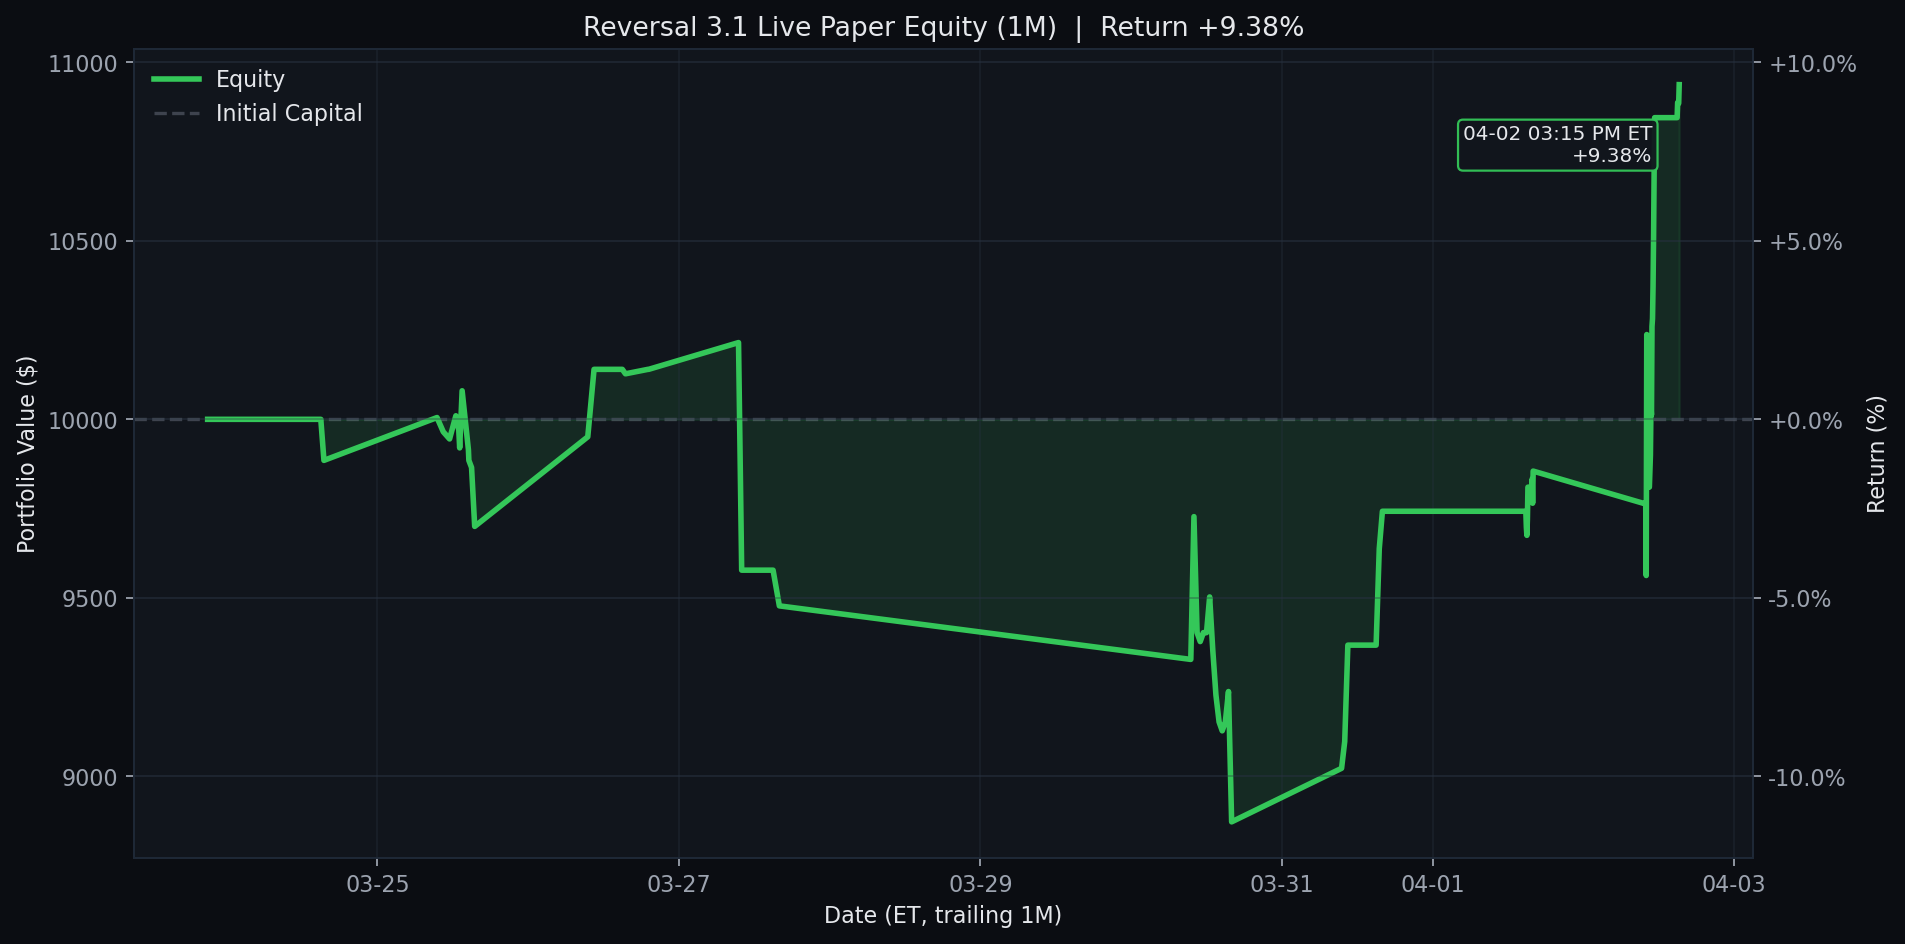
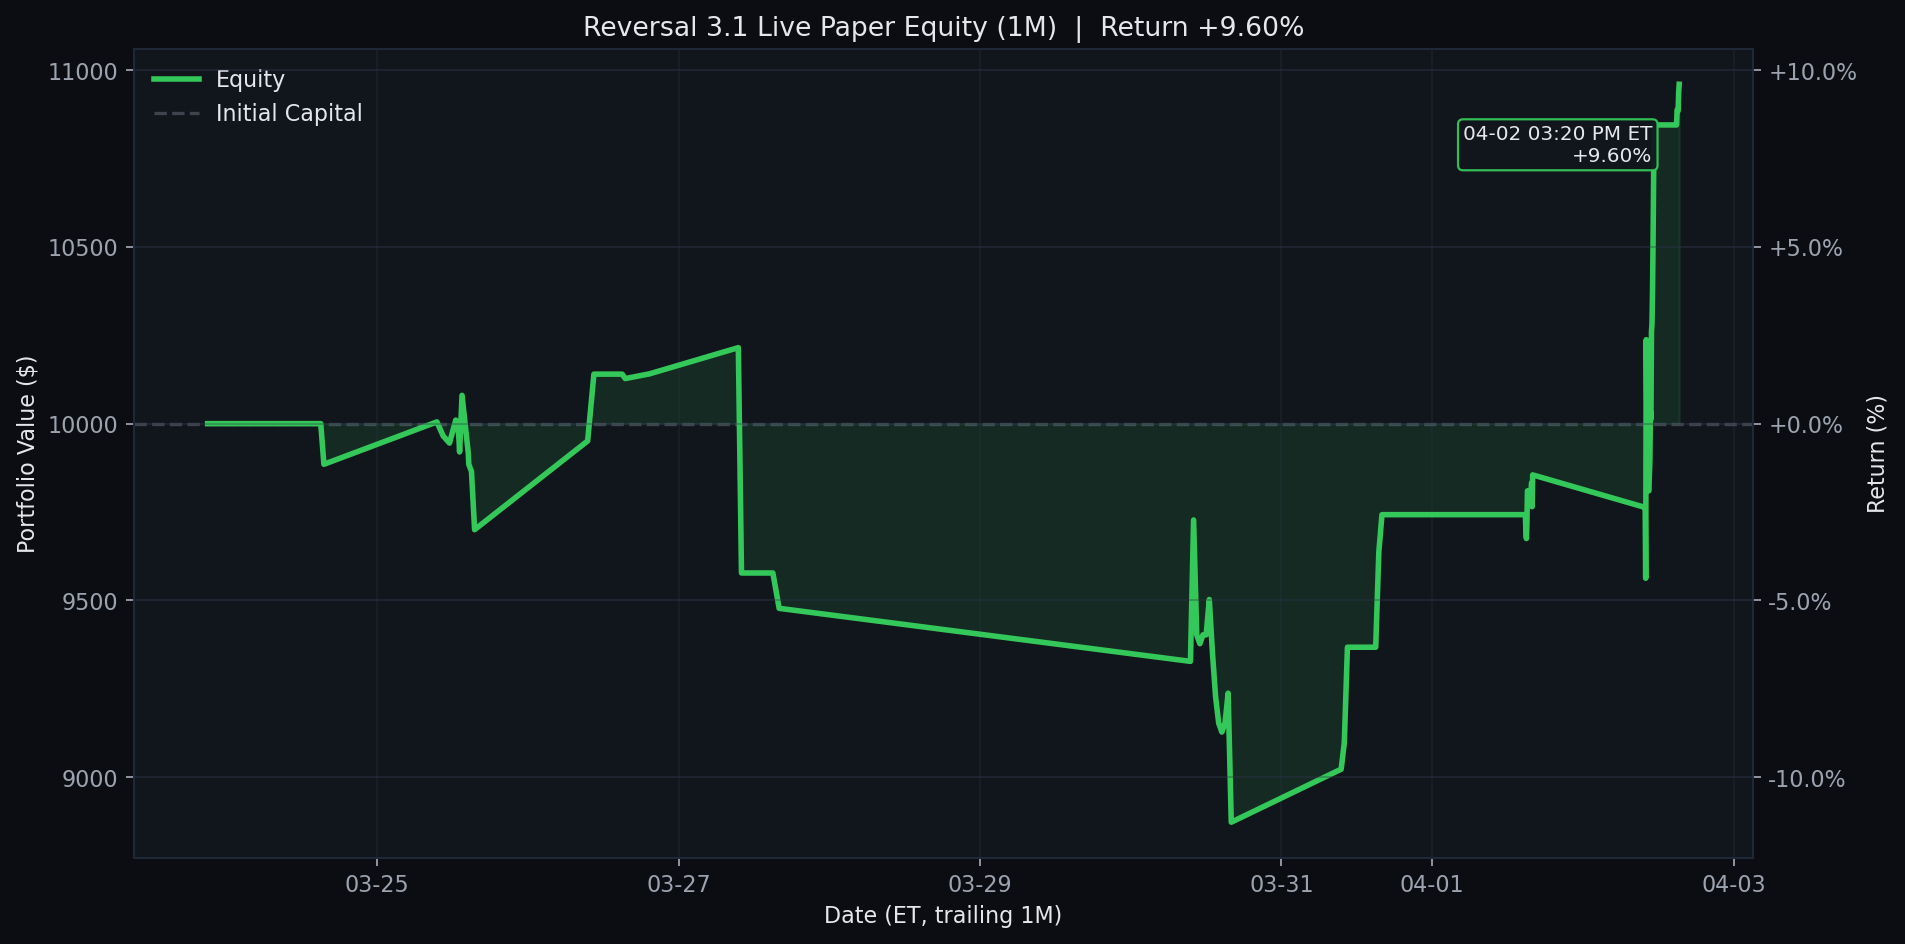
Update Reversal 3.1 live paper test 2026-04-02 15:20 ET

diff --git a/results/reversal_3_1_live/README.md b/results/reversal_3_1_live/README.md
@@ -1,7 +1,7 @@
 # Reversal 3.1 Live Paper Test
 
-Last updated (ET): `2026-04-02 15:15:00 EDT`
-Last processed slot: `manual_refresh`
+Last updated (ET): `2026-04-02 15:20:05 EDT`
+Last processed slot: `manage_1530`
 
 ## Active Configuration
 
@@ -20,16 +20,16 @@ Last processed slot: `manual_refresh`
 ## Portfolio Snapshot
 
 - Cash: `$8,102.50`
-- Equity: `$10,937.50`
+- Equity: `$10,960.00`
 - Realized PnL: `$845.00`
-- Unrealized PnL: `$92.50`
+- Unrealized PnL: `$115.00`
 - Open positions: `1`
 
 ## Open Positions
 
 ```text
 ticker    contract_symbol entry_trade_date  business_days_held  entry_option_price  current_option_price  entry_spot  current_spot  unrealized_pnl  unrealized_return_pct  success_rate  matched_signals  current_drop_pct  entry_iv_pct  current_iv_pct  rolling_sigma_20d_pct
-   WDC WDC260501C00295000       2026-04-02                   0               27.42                 28.35      294.77        295.61            92.5                   3.37         97.22               36              0.99         81.84           83.37                  91.06
+   WDC WDC260501C00295000       2026-04-02                   0               27.42                 28.58      294.77        295.07           115.0                   4.19         97.22               36              0.99         81.84           84.69                  91.06
 ```
 
 ## Today's Closed Trades (2026-04-02)
@@ -43,18 +43,18 @@ ticker     contract_symbol entry_trade_date_et exit_trade_date_et  entry_option_
 
 ```text
 ticker  success_rate_%  matched_signals  current_drop_%  target_rebound_$  target_price  rolling_sigma_20d_%  call_candidate
-   WDC           97.44               39            0.71              1.48        297.09                91.06            True
-  ASML           92.86               14            2.92             27.80       1347.85                52.01            True
-  DXCM           91.11               45            0.71              0.31         62.24                31.67            True
-   MAR           88.89               36            0.68              1.59        332.78                28.45            True
-  FAST           88.46               26            0.97              0.32         46.49                21.97            True
-   CSX           88.00               25            0.62              0.18         41.36                27.84            True
-  GILD           87.50               24            0.87              0.85        139.94                21.47            True
-  ORLY           87.10               31            0.87              0.56         91.86                22.81            True
-  KLAC           86.84               38            0.77              8.18       1516.34                56.48            True
-  BKNG           85.00               40            0.58             16.97       4177.29                42.15            True
-  AMAT           84.38               32            1.18              2.93        352.54                59.65            True
- GOOGL           84.21               38            0.67              1.40        296.79                35.66            True
+   WDC           97.30               37            0.89              1.86        296.93                91.06            True
+  ASML           91.67               12            3.27             31.08       1346.44                52.01            True
+  DXCM           91.11               45            0.67              0.29         62.24                31.67            True
+   MAR           89.47               38            0.60              1.39        332.86                28.45            True
+  FAST           89.29               28            0.91              0.30         46.50                21.97            True
+   CSX           88.89               27            0.57              0.16         41.37                27.84            True
+  GILD           88.00               25            0.82              0.81        139.95                21.47            True
+  ORLY           87.10               31            0.85              0.55         91.87                22.81            True
+  KLAC           85.29               34            1.00             10.61       1515.29                56.48            True
+  AMAT           84.38               32            1.38              3.41        352.34                59.65            True
+ GOOGL           83.78               37            0.75              1.56        296.72                35.66            True
+  BKNG           83.78               37            0.73             21.48       4175.36                42.15            True
 ```
 
 ## Recent Events

diff --git a/README.md b/README.md
@@ -3,10 +3,10 @@
 <!-- reversal-3.1-live:start -->
 ## Reversal 3.1 Live Paper Test
 
-- Last updated (ET): `2026-04-02 15:15:00 EDT`
-- Equity: `$10,937.50` | Realized: `$845.00` | Unrealized: `$92.50` | Open positions: `1`
+- Last updated (ET): `2026-04-02 15:20:05 EDT`
+- Equity: `$10,960.00` | Realized: `$845.00` | Unrealized: `$115.00` | Open positions: `1`
 - Today closed trades: `1`
-- Current slot: `manual_refresh`
+- Current slot: `manage_1530`
 - Universe: `qqq_plus_leverage_etfs`
 - Chart windows: `1D / 1W / 1M` (default open panel: `1W`)
 
@@ -14,7 +14,7 @@
 
 ```text
 ticker    contract_symbol  current_option_price  unrealized_pnl  unrealized_return_pct  business_days_held
-   WDC WDC260501C00295000                 28.35            92.5                   3.37                   0
+   WDC WDC260501C00295000                 28.58           115.0                   4.19                   0
 ```
 
 <details>
